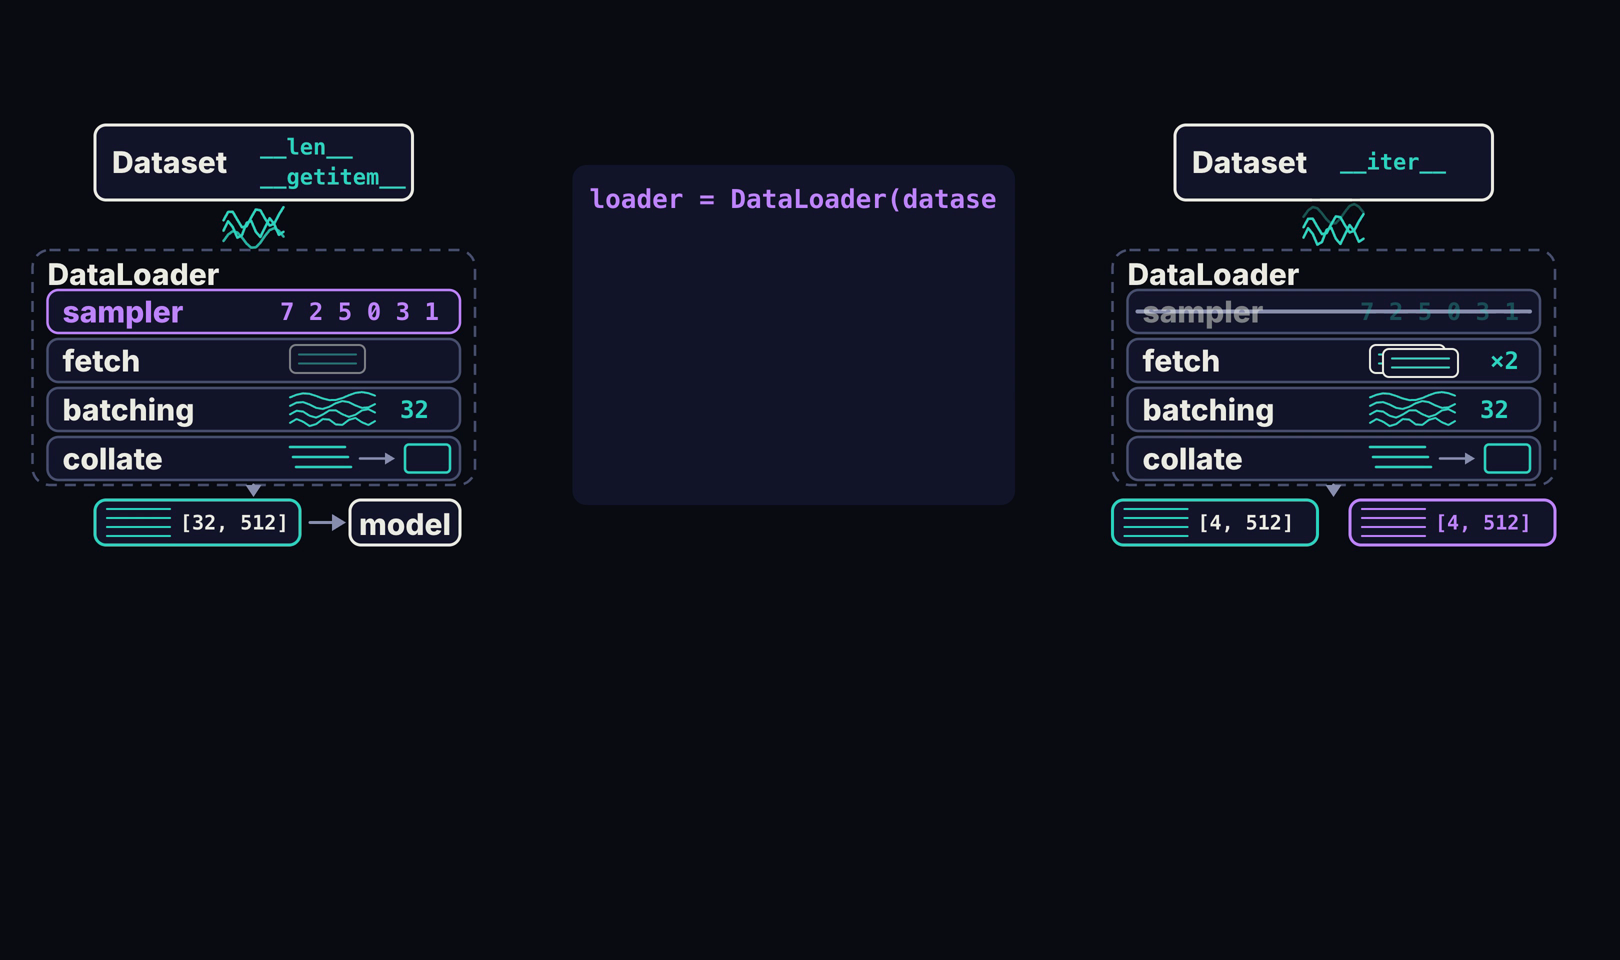
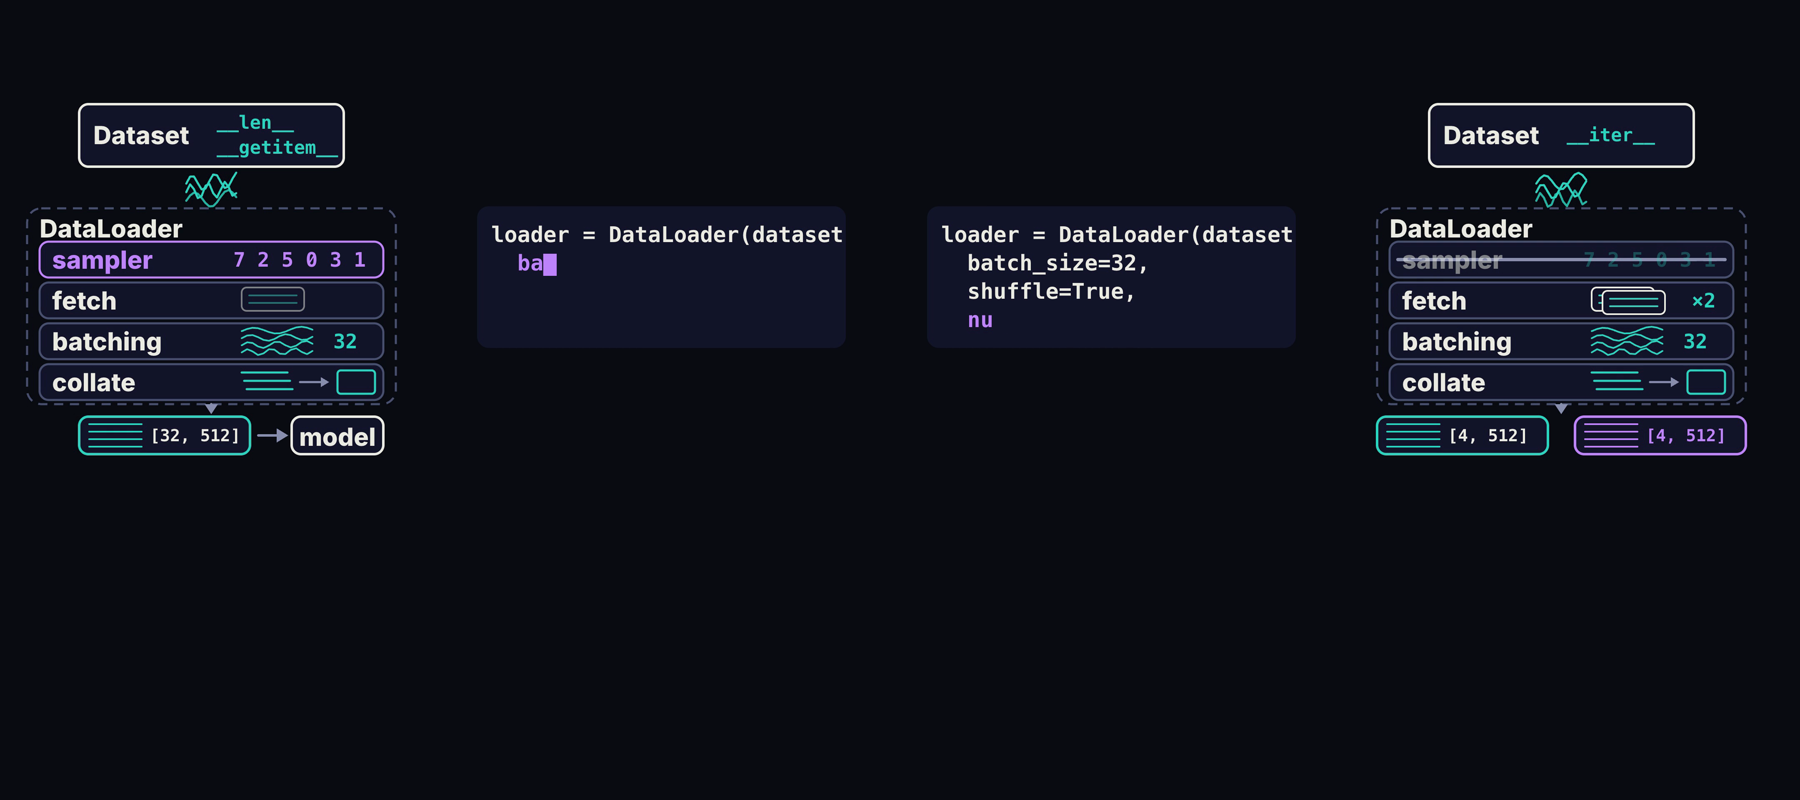
014 kit: the code card sizes to its lines; layout shows the flip and the typing

Changed region(s): [[0.5247, 0.125, 0.9877, 0.5938], [0.0, 0.125, 0.463, 0.5938], [0.3395, 0.1875, 0.6173, 0.2188]]

diff --git a/videos/014-pytorch-dataloading/_kit/code.js b/videos/014-pytorch-dataloading/_kit/code.js
@@ -4,8 +4,8 @@
 // typed is the hero. Loaded after kit/machine.js; machine.js picks it up
 // through window.SC_makeCode and drives it from S.code.
 //
-// Card: x 65–950, y 330–1010 (centred in the stage, captions in the band as
-// usual). Up to eight lines at 68 px pitch, 52 px monospace (≈ 31 px a
+// Card: x 65–950, centred on the stage (y 665), sized to its lines (3–8 rows
+// at 68 px pitch; captions stay in the band). 52 px monospace (≈ 31 px a
 // character: 28 characters a line, the limit kit/data.js keeps).
 //
 // S.code fields:
@@ -18,7 +18,7 @@
 //   blink 0..       seconds, for the cursor's 0.5 s blink (pass the beat time)
 (function () {
   const PAL = { bg: "#0B0B14", panel: "#14142B", ink: "#ECEBE4", dim: "#8A8FB0", data: "#2DD4BF", hero: "#C084FC", muted: "#4A5070" };
-  const CARD = { x: 65, y: 330, w: 885, h: 680, pad: 34, pitch: 68, size: 52, rows: 8 };
+  const CARD = { x: 65, w: 885, pad: 34, pitch: 68, size: 52, rows: 8, cy: 665 };
   const hash = (n) => { const s = Math.sin(n * 127.1 + 311.7) * 43758.5453; return s - Math.floor(s); };
 
   // How many characters a typist has landed `seconds` after starting, over
@@ -50,7 +50,7 @@
 
   function makeCode(root) {
     const card = document.createElement("div");
-    card.style.cssText = `position:absolute;left:${CARD.x}px;top:${CARD.y}px;width:${CARD.w}px;height:${CARD.h}px;` +
+    card.style.cssText = `position:absolute;left:${CARD.x}px;top:0px;width:${CARD.w}px;height:100px;` +
       `border-radius:28px;background:${PAL.panel};overflow:hidden;`;
     card.setAttribute("data-layout-allow-overflow", "");
     card.setAttribute("data-layout-allow-occlusion", "");
@@ -72,6 +72,8 @@
       card.style.opacity = o; card.style.visibility = o > 0.001 ? "visible" : "hidden";
       if (o <= 0.001) return;
       const lines = C.lines || [];
+      const nRows = Math.max(3, Math.min(CARD.rows, lines.length)), h = CARD.pad * 2 + nRows * CARD.pitch;
+      card.style.height = `${h}px`; card.style.top = `${Math.round(CARD.cy - h / 2)}px`;
       let left = C.typed == null ? Infinity : Math.max(0, Math.floor(C.typed));
       const shown = [];
       lines.forEach((ln, i) => {

diff --git a/videos/014-pytorch-dataloading/00_layout/index.html b/videos/014-pytorch-dataloading/00_layout/index.html
@@ -5,8 +5,8 @@
     <meta name="viewport" content="width=1080, height=1920" />
     <!-- 00_layout: the canonical frame of the PyTorch Dataloading series, in three states. Not in any Short.
          0–2 s  ep 2's frame 0: map-style, the sampler named, samples hopping into the loader
-         2–4 s  the flip to the code card, typing the loader call (ep 2's code beat)
-         4–6 s  ep 5's twin batches: iterable, the sampler struck, two workers, [4, 512] twice -->
+         2–6 s  the flip to the code card, typing the loader call (ep 2's code beat), and back
+         6–8 s  ep 5's twin batches: iterable, the sampler struck, two workers, [4, 512] twice -->
     <script src="vendor/gsap.min.js"></script>
     <script src="kit/data.js"></script>
     <script src="kit/machine.js"></script>
@@ -23,17 +23,17 @@
     </style>
   </head>
   <body>
-    <div id="root" data-composition-id="main" data-start="0" data-duration="6" data-fps="30" data-width="1080" data-height="1920"></div>
+    <div id="root" data-composition-id="main" data-start="0" data-duration="8" data-fps="30" data-width="1080" data-height="1920"></div>
     <script>
 (() => {
-  const BEAT_SECONDS = 6;
+  const BEAT_SECONDS = 8;
   const root = document.getElementById("root");
   const kit = SC.mount(root);
   const C = SC.D.code, { seg } = SC;
-  const T = { flipIn: 2.0, typeFrom: 2.5, flipOut: 3.7 };
+  const T = { flipIn: 2.0, typeFrom: 2.5, flipOut: 5.6 };
   function render(t) {
     SC.clock = t;
-    if (t < 4) {
+    if (t < 6) {
       const flip = seg(t, T.flipIn, T.flipIn + 0.4) * (1 - seg(t, T.flipOut, T.flipOut + 0.4));
       const typed = SC_typedAt(C.loader, t - T.typeFrom);
       // the hero passes to the line being typed
